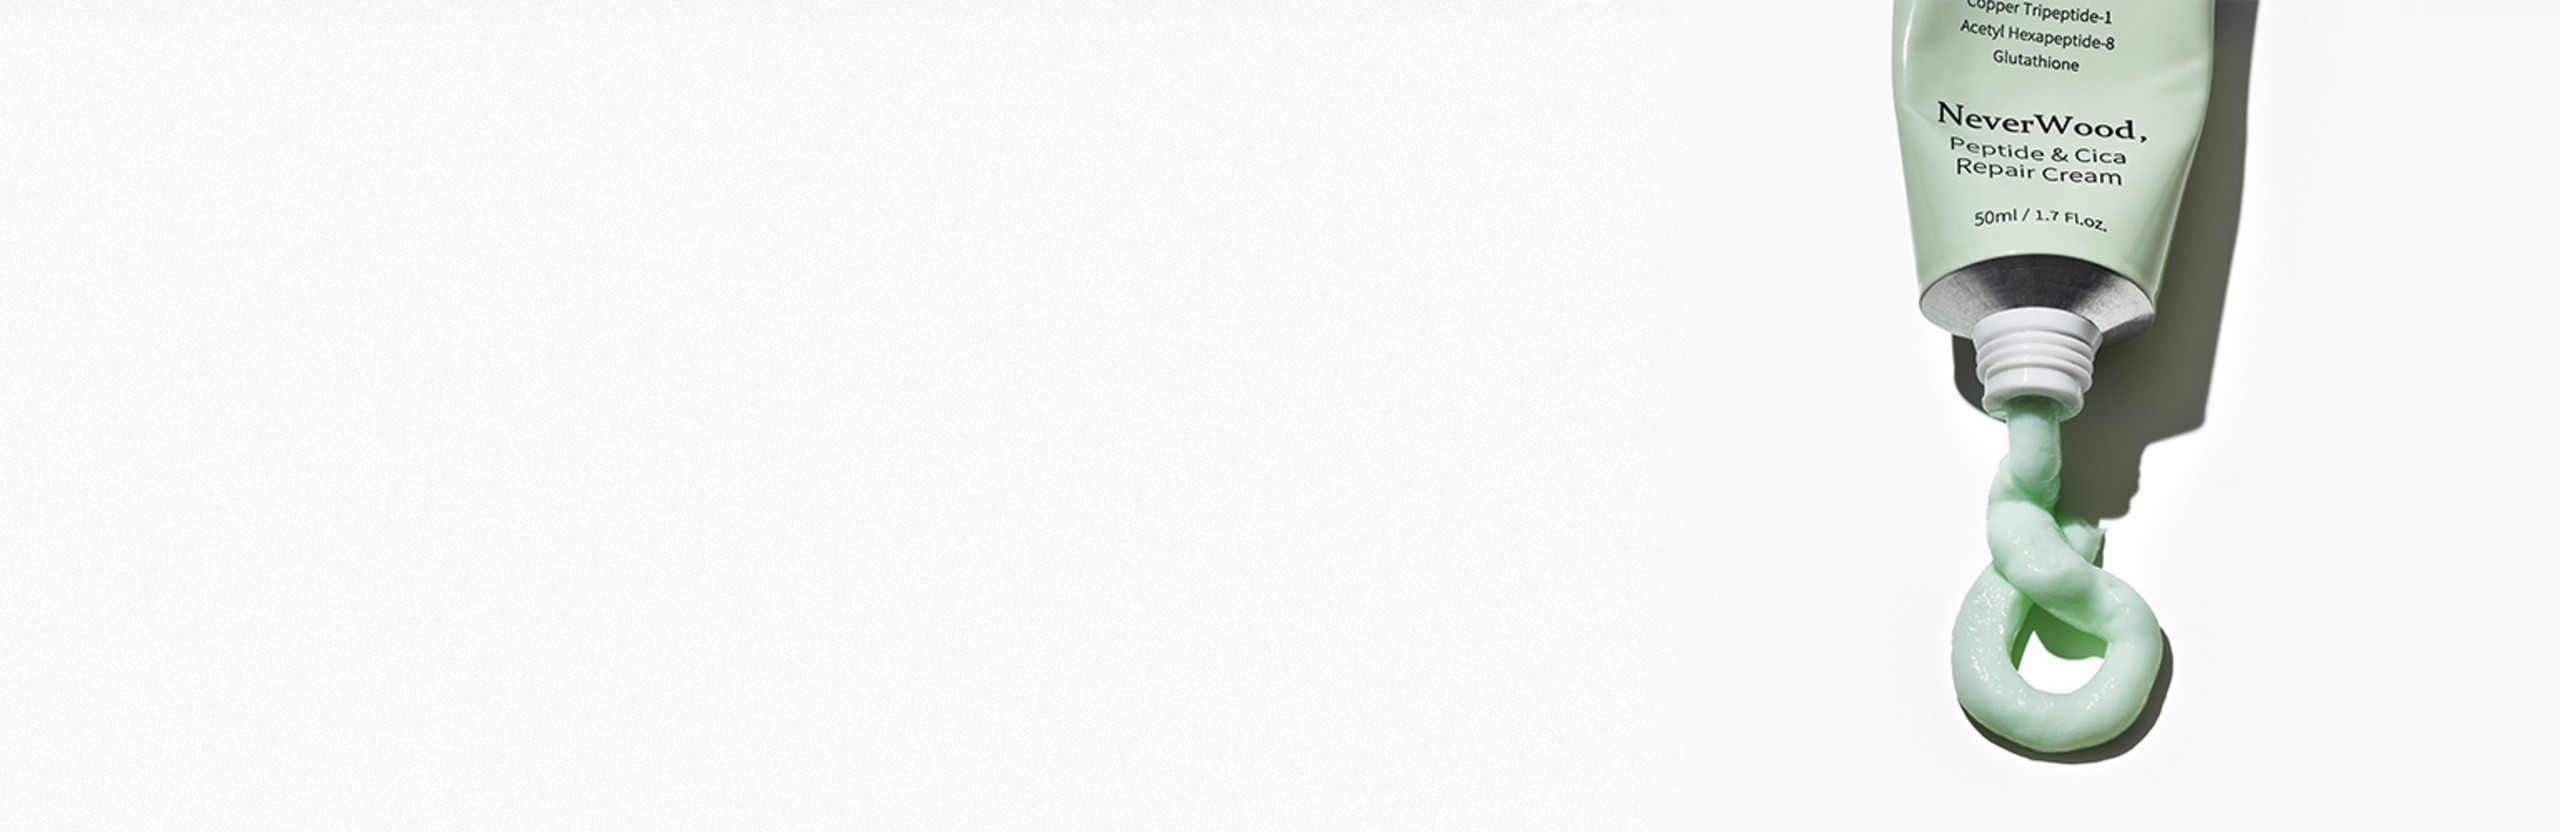
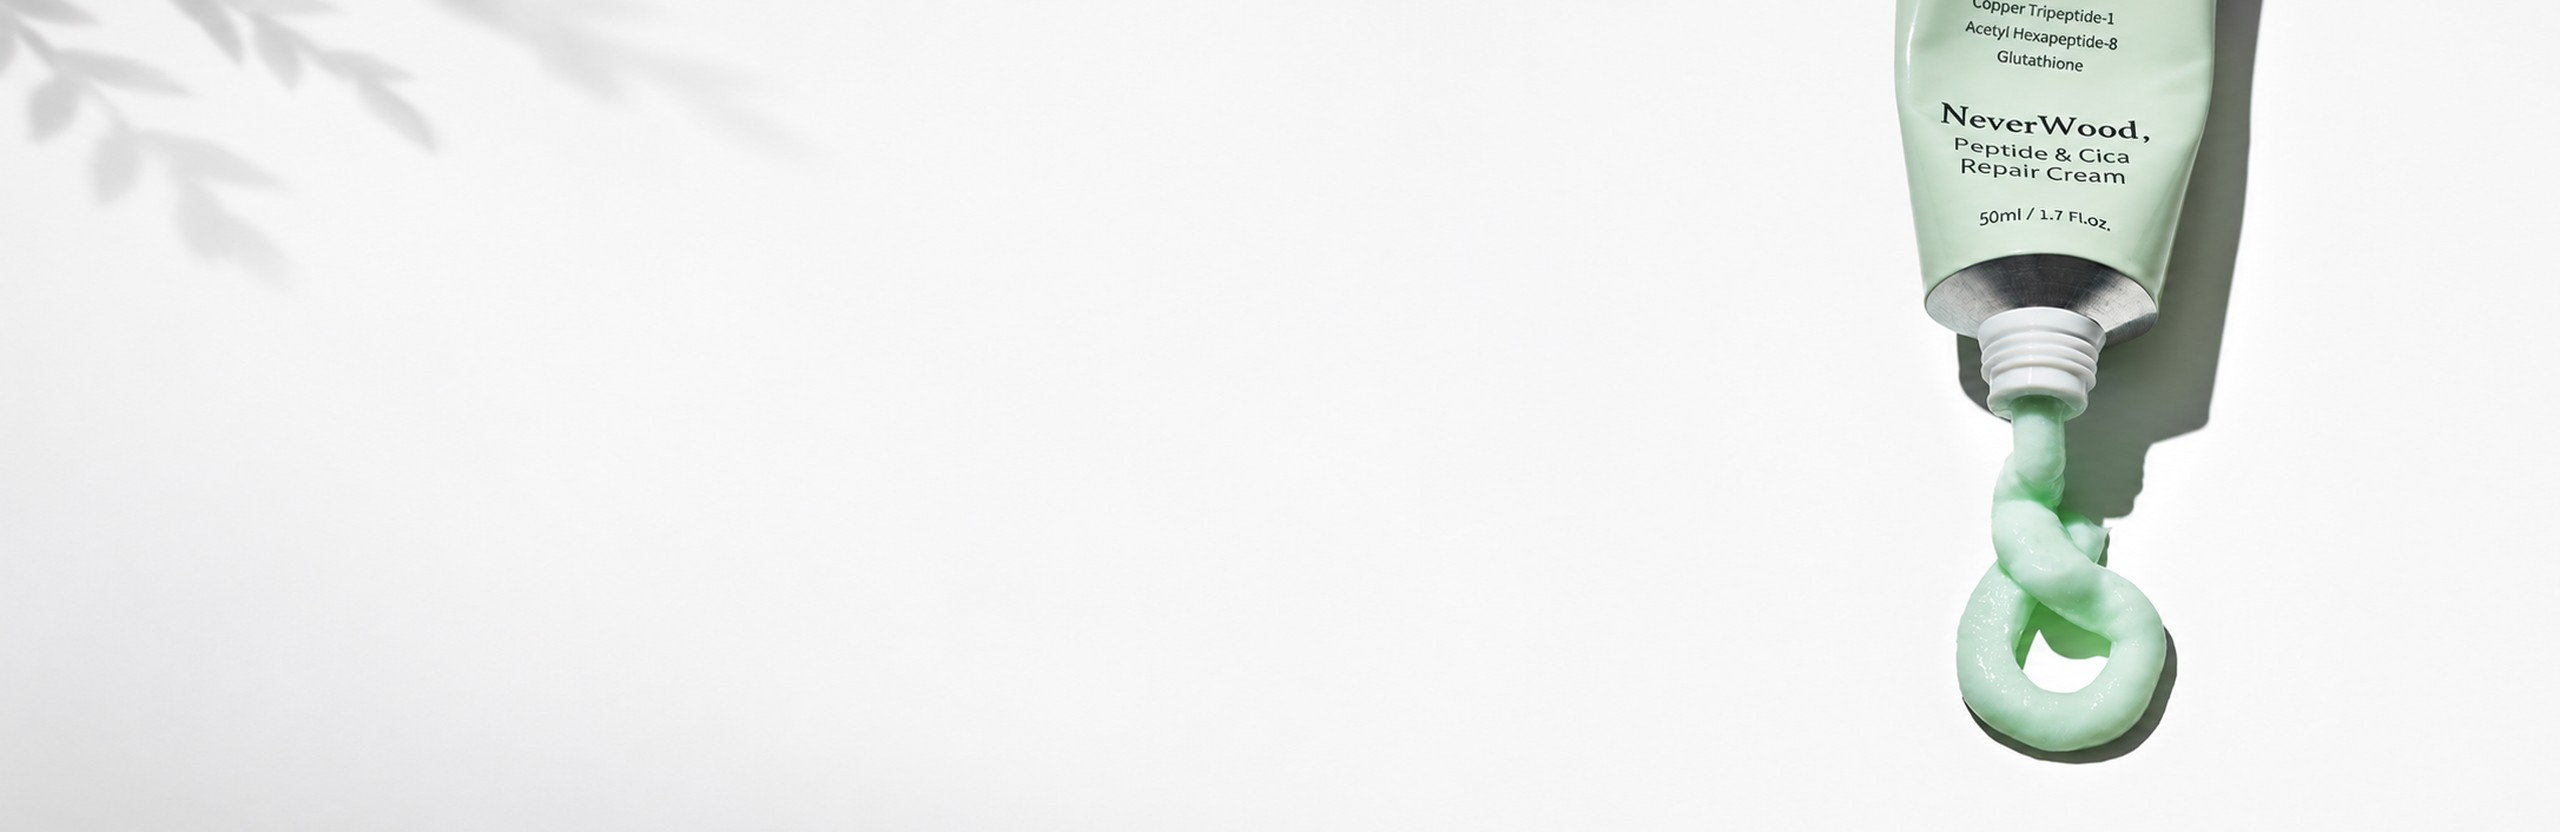
홈 배너 3장을 ChatGPT로 배경 확장한 상품 사진(2560x832)으로 교체

diff --git a/app/Database/Seeds/DemoSeeder.php b/app/Database/Seeds/DemoSeeder.php
@@ -164,7 +164,7 @@ class DemoSeeder extends Seeder
         // ── 배너 ──
         if (! $db->table('banners')->countAllResults()) {
             $db->table('banners')->insertBatch([
-                // 상품 사진 배너 (scripts/make-hero-banners.py 로 상품 연출 사진을 가로로 잘라 만듦). 링크는 브랜드 검색
+                // 상품 사진 배너 2560x832 (상품 사진 + ChatGPT 배경 확장, 2026-11-25). 링크는 브랜드 검색
                 ['title' => "요뽀끼 컵떡볶이 4종
 1개부터 도매 주문", 'subtitle' => '매콤달콤 · 치즈 · 로제 · 매콤 까르보나라', 'image' => 'assets/img/banners/hero_yopokki.jpg', 'bg' => '#B2261E', 'link' => '/products?q=요뽀끼', 'sort' => 1, 'is_active' => 1, 'created_at' => $now, 'updated_at' => $now],
                 ['title' => "사평 즉석 카레 2종
